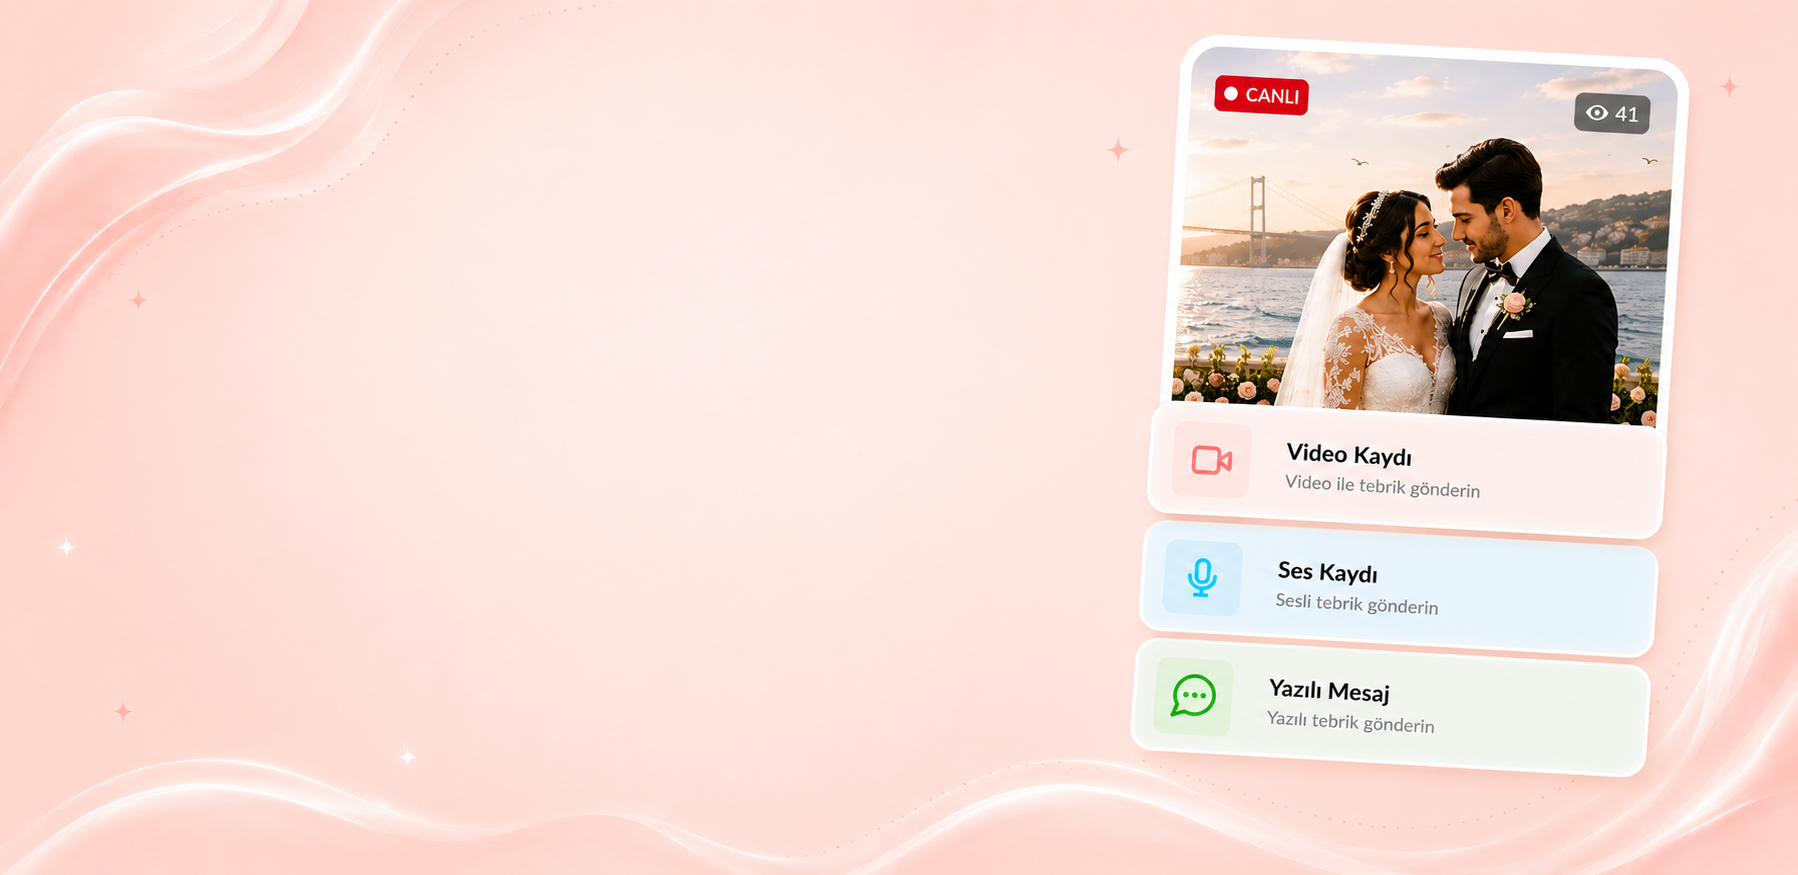
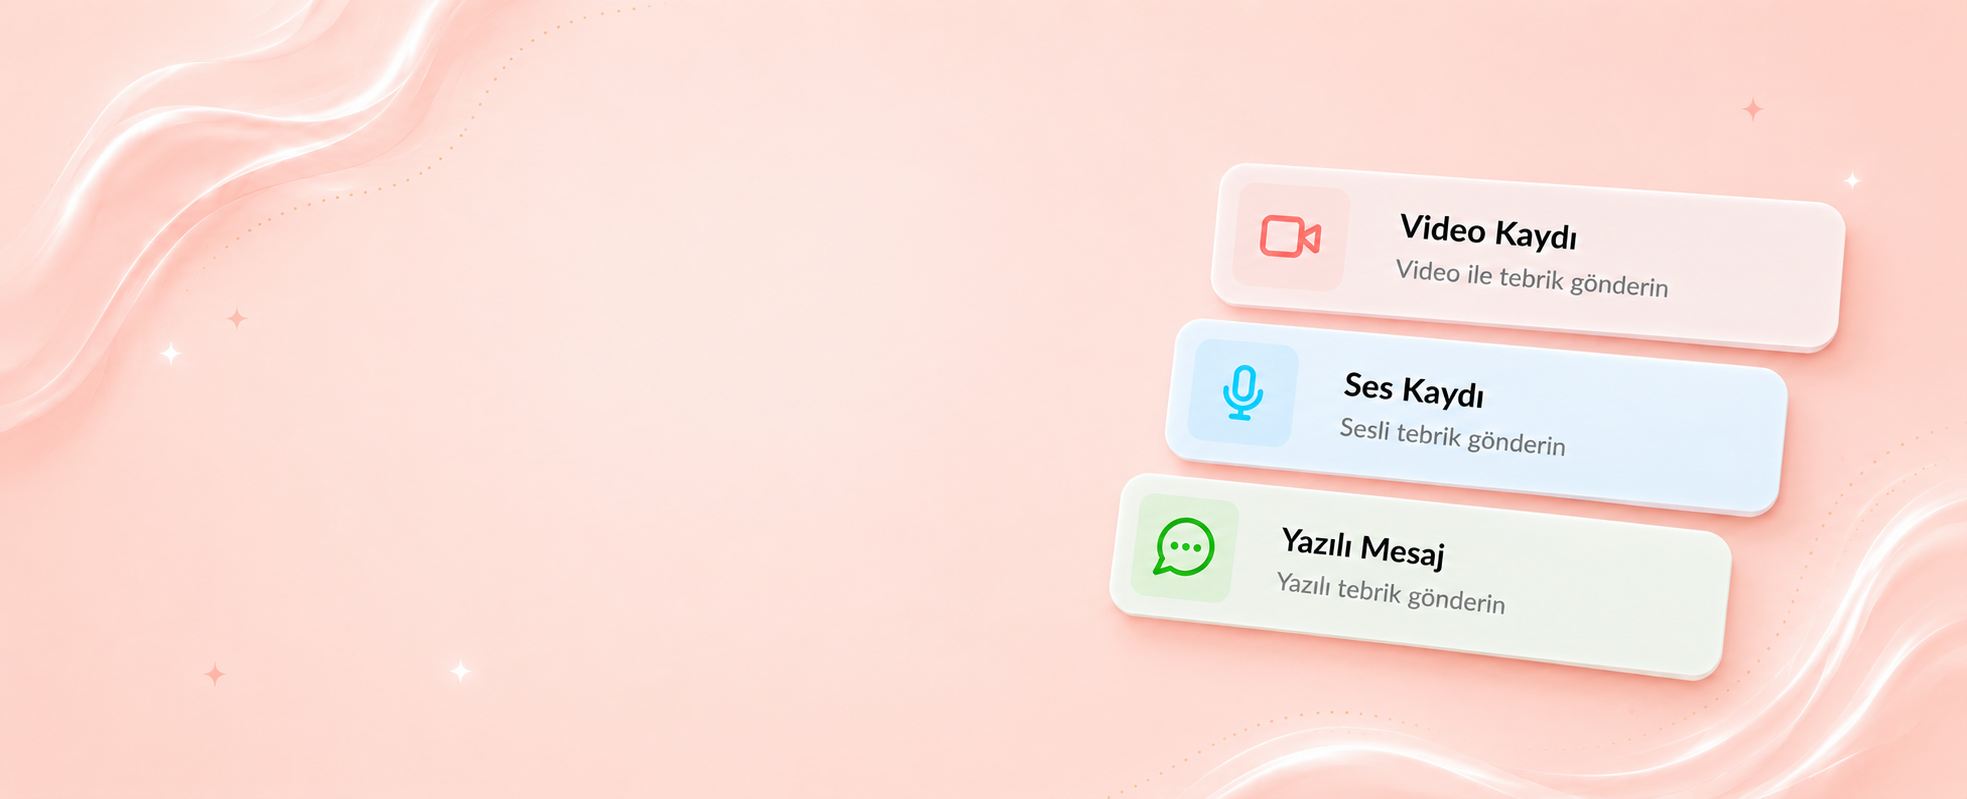
fix: masaüstü 4 kart düzeltme — aspect 3.63:1, headings/badges büyütüldü
- Tebrik + Altın Toplama: yeni image dosyaları kopyalandı
- 3 kart (Altın/Tebrik/Albüm) aspect → 1964/541 (Canlı Yayın ile aynı)
- Tüm kart başlıkları +1pt büyütüldü
- Canlı Yayın: heading sağa+yukarı, desc +1pt + spacing, badges %30 büyük,
  alta (justify-between)
- Altın Toplama: heading aşağıda + tek satır birleşik, desc +1pt, badges büyütüldü
- Tebrik: heading + desc sağa kaydırıldı (pl-24)
- Albüm: heading + desc + badges sağa kaydırıldı (pl-24), badges büyütüldü,
  fotolar +%20 (70→84, 95→114)

diff --git a/app/page.tsx b/app/page.tsx
@@ -597,28 +597,30 @@ export default function Home() {
               </div>
             </div>
 
-            {/* Masaüstü — 1230x300, image full bg, content overlay sol (image'in pembe sol kısmı üzerinde) */}
-            <div className="hidden md:flex absolute left-0 top-0 h-full w-[52%] flex-col justify-center pl-10 pr-4">
-              <h3 className="leading-[1.05]" style={{ fontFamily: 'var(--font-playfair)', color: '#C8686E', fontWeight: 600, fontSize: 'clamp(28px, 2.6vw, 38px)' }}>Canlı Yayın</h3>
-              <h3 className="leading-[1.1] mt-0.5" style={{ fontFamily: 'var(--font-playfair)', color: '#1F1F1F', fontWeight: 600, fontSize: 'clamp(16px, 1.5vw, 22px)' }}>ile mutluluğunuzu paylaşın!</h3>
-              <p className="mt-2 leading-snug text-[12px] lg:text-[13px]" style={{ color: '#6E5A5A' }}>
-                Düğününüzü veya Nikahınızı Canlı Yayınlayın,<br />
-                bu anı kimse kaçırmasın!
-              </p>
-              <div className="flex gap-1 flex-wrap mt-2.5">
+            {/* Masaüstü — image full bg, heading sağa+yukarı kayık, badges altta büyütülmüş */}
+            <div className="hidden md:flex absolute left-0 top-0 h-full w-[52%] flex-col justify-between pl-14 pr-4 py-6">
+              <div>
+                <h3 className="leading-[1.05]" style={{ fontFamily: 'var(--font-playfair)', color: '#C8686E', fontWeight: 600, fontSize: 'clamp(32px, 3vw, 44px)' }}>Canlı Yayın</h3>
+                <h3 className="leading-[1.1] mt-1" style={{ fontFamily: 'var(--font-playfair)', color: '#1F1F1F', fontWeight: 600, fontSize: 'clamp(18px, 1.7vw, 26px)' }}>ile mutluluğunuzu paylaşın!</h3>
+                <p className="mt-4 leading-snug text-[13px] lg:text-[14px]" style={{ color: '#6E5A5A' }}>
+                  Düğününüzü veya Nikahınızı Canlı Yayınlayın,<br />
+                  bu anı kimse kaçırmasın!
+                </p>
+              </div>
+              <div className="flex gap-1.5 flex-wrap">
                 {[
-                  { label: 'Yüksek Çözünürlük', icon: <svg className="w-3 h-3" fill="none" stroke="currentColor" viewBox="0 0 24 24"><path strokeLinecap="round" strokeLinejoin="round" strokeWidth={2.5} d="M9 12l2 2 4-4m6 2a9 9 0 11-18 0 9 9 0 0118 0z" /></svg> },
-                  { label: 'Tek Tıkla Yayın', icon: <svg className="w-3 h-3" fill="none" stroke="currentColor" viewBox="0 0 24 24"><path strokeLinecap="round" strokeLinejoin="round" strokeWidth={2.5} d="M9 12l2 2 4-4m6 2a9 9 0 11-18 0 9 9 0 0118 0z" /></svg> },
-                  { label: 'Uygulamasız izleme', icon: <svg className="w-3 h-3" fill="none" stroke="currentColor" viewBox="0 0 24 24"><path strokeLinecap="round" strokeLinejoin="round" strokeWidth={2.5} d="M9 12l2 2 4-4m6 2a9 9 0 11-18 0 9 9 0 0118 0z" /></svg> },
+                  { label: 'Yüksek Çözünürlük', icon: <svg className="w-3.5 h-3.5" fill="none" stroke="currentColor" viewBox="0 0 24 24"><path strokeLinecap="round" strokeLinejoin="round" strokeWidth={2.5} d="M9 12l2 2 4-4m6 2a9 9 0 11-18 0 9 9 0 0118 0z" /></svg> },
+                  { label: 'Tek Tıkla Yayın', icon: <svg className="w-3.5 h-3.5" fill="none" stroke="currentColor" viewBox="0 0 24 24"><path strokeLinecap="round" strokeLinejoin="round" strokeWidth={2.5} d="M9 12l2 2 4-4m6 2a9 9 0 11-18 0 9 9 0 0118 0z" /></svg> },
+                  { label: 'Uygulamasız izleme', icon: <svg className="w-3.5 h-3.5" fill="none" stroke="currentColor" viewBox="0 0 24 24"><path strokeLinecap="round" strokeLinejoin="round" strokeWidth={2.5} d="M9 12l2 2 4-4m6 2a9 9 0 11-18 0 9 9 0 0118 0z" /></svg> },
                 ].map((b, i) => (
-                  <span key={i} className="inline-flex items-center gap-1 px-2 py-0.5 rounded-full text-[10px] font-semibold whitespace-nowrap" style={{ background: 'rgba(255,255,255,0.85)', color: '#C8686E', border: '1px solid rgba(200,104,110,0.18)', boxShadow: '0 2px 6px rgba(200,104,110,0.06)' }}>{b.icon}{b.label}</span>
+                  <span key={i} className="inline-flex items-center gap-1.5 px-3 py-1.5 rounded-full text-[13px] font-semibold whitespace-nowrap" style={{ background: 'rgba(255,255,255,0.85)', color: '#C8686E', border: '1px solid rgba(200,104,110,0.18)', boxShadow: '0 2px 6px rgba(200,104,110,0.06)' }}>{b.icon}{b.label}</span>
                 ))}
               </div>
             </div>
           </div>
 
-          {/* Altınlarınızı Online Toplayın - kart (1230x300 masaüstü: image full bg) */}
-          <div className="relative rounded-3xl overflow-hidden md:min-h-[300px]" style={{ boxShadow: '0 16px 48px rgba(200,140,140,0.18), 0 4px 14px rgba(0,0,0,0.04)', border: '1px solid rgba(232,180,170,0.25)' }}>
+          {/* Altınlarınızı Online Toplayın - kart (masaüstü aspect 3.63:1 = canlı yayın ile aynı) */}
+          <div className="relative rounded-3xl overflow-hidden md:aspect-[1964/541]" style={{ boxShadow: '0 16px 48px rgba(200,140,140,0.18), 0 4px 14px rgba(0,0,0,0.04)', border: '1px solid rgba(232,180,170,0.25)' }}>
             <img src="/altin-toplama-mobil.png" alt="" className="absolute inset-0 w-full h-full object-cover md:hidden pointer-events-none select-none" />
             <img src="/altin-toplama-masaustu.png" alt="" className="hidden md:block absolute inset-0 w-full h-full object-cover pointer-events-none select-none" />
             {/* Mobil — heading + desc tam ortalanmış, badges altta tam ortalı */}
@@ -646,27 +648,29 @@ export default function Home() {
                 ))}
               </div>
             </div>
-            {/* Masaüstü — image full bg, content overlay sağ (badges altta) */}
-            <div className="hidden md:flex absolute right-0 top-0 h-full w-[52%] flex-col justify-between pr-10 pl-4 py-6">
-              <div>
-                <h3 className="text-[clamp(26px,2.4vw,36px)] mb-0.5 leading-[1.1]" style={{ fontFamily: 'var(--font-playfair)', color: '#2B2B2B', fontWeight: 600 }}>Altınlarınızı</h3>
-                <h3 className="text-[clamp(26px,2.4vw,36px)] mb-2 leading-[1.1] whitespace-nowrap" style={{ fontFamily: 'var(--font-playfair)', color: '#C8686E', fontWeight: 600 }}>Online Toplayın</h3>
-                <p className="text-[12px] lg:text-[13px] leading-snug" style={{ color: '#6E5A5A' }}>Davetlileriniz Havale/EFT veya Crypto ile doğrudan sizin hesabınıza ödeme yapsın.</p>
+            {/* Masaüstü — image full bg, content overlay sağ (heading aşağıya, tek satır) */}
+            <div className="hidden md:flex absolute right-0 top-0 h-full w-[52%] flex-col justify-between pr-14 pl-4 py-6">
+              <div className="pt-3">
+                <h3 className="text-[clamp(28px,2.6vw,40px)] mb-2 leading-[1.1] whitespace-nowrap" style={{ fontFamily: 'var(--font-playfair)', color: '#2B2B2B', fontWeight: 600 }}>
+                  <span>Altınlarınızı </span>
+                  <span style={{ color: '#C8686E' }}>Online Toplayın</span>
+                </h3>
+                <p className="text-[13px] lg:text-[14px] leading-snug" style={{ color: '#6E5A5A' }}>Davetlileriniz Havale/EFT veya Crypto ile doğrudan sizin hesabınıza ödeme yapsın.</p>
               </div>
-              <div className="flex gap-1 flex-nowrap">
+              <div className="flex gap-1.5 flex-nowrap">
                 {[
-                  { label: 'Güvenilir', icon: <svg className="w-3 h-3" fill="none" stroke="currentColor" viewBox="0 0 24 24"><path strokeLinecap="round" strokeLinejoin="round" strokeWidth={2.5} d="M9 12l2 2 4-4m6 2a9 9 0 11-18 0 9 9 0 0118 0z" /></svg> },
-                  { label: 'Komisyon Yok', icon: <svg className="w-3 h-3" fill="none" stroke="currentColor" viewBox="0 0 24 24"><path strokeLinecap="round" strokeLinejoin="round" strokeWidth={2.5} d="M9 12l2 2 4-4m6 2a9 9 0 11-18 0 9 9 0 0118 0z" /></svg> },
-                  { label: 'Anında Ödeme', icon: <svg className="w-3 h-3" fill="none" stroke="currentColor" viewBox="0 0 24 24"><path strokeLinecap="round" strokeLinejoin="round" strokeWidth={2.5} d="M13 10V3L4 14h7v7l9-11h-7z" /></svg> },
+                  { label: 'Güvenilir', icon: <svg className="w-3.5 h-3.5" fill="none" stroke="currentColor" viewBox="0 0 24 24"><path strokeLinecap="round" strokeLinejoin="round" strokeWidth={2.5} d="M9 12l2 2 4-4m6 2a9 9 0 11-18 0 9 9 0 0118 0z" /></svg> },
+                  { label: 'Komisyon Yok', icon: <svg className="w-3.5 h-3.5" fill="none" stroke="currentColor" viewBox="0 0 24 24"><path strokeLinecap="round" strokeLinejoin="round" strokeWidth={2.5} d="M9 12l2 2 4-4m6 2a9 9 0 11-18 0 9 9 0 0118 0z" /></svg> },
+                  { label: 'Anında Ödeme', icon: <svg className="w-3.5 h-3.5" fill="none" stroke="currentColor" viewBox="0 0 24 24"><path strokeLinecap="round" strokeLinejoin="round" strokeWidth={2.5} d="M13 10V3L4 14h7v7l9-11h-7z" /></svg> },
                 ].map((b, i) => (
-                  <span key={i} className="inline-flex items-center gap-1 px-2 py-0.5 rounded-full text-[10px] font-semibold whitespace-nowrap" style={{ background: 'rgba(255,255,255,0.85)', color: '#C8686E', border: '1px solid rgba(200,104,110,0.18)', boxShadow: '0 2px 6px rgba(200,104,110,0.06)' }}>{b.icon}{b.label}</span>
+                  <span key={i} className="inline-flex items-center gap-1.5 px-3 py-1.5 rounded-full text-[13px] font-semibold whitespace-nowrap" style={{ background: 'rgba(255,255,255,0.85)', color: '#C8686E', border: '1px solid rgba(200,104,110,0.18)', boxShadow: '0 2px 6px rgba(200,104,110,0.06)' }}>{b.icon}{b.label}</span>
                 ))}
               </div>
             </div>
           </div>
 
-          {/* Tebrik Mesajları - mobile (1:1) + desktop (1230x300, image full bg, content sol overlay) */}
-          <div className="relative rounded-3xl overflow-hidden mx-auto w-full aspect-square md:aspect-auto max-w-[720px] md:max-w-none md:min-h-[300px]" style={{ boxShadow: '0 16px 48px rgba(200,140,140,0.18), 0 4px 14px rgba(0,0,0,0.04)', border: '1px solid rgba(232,180,170,0.25)' }}>
+          {/* Tebrik Mesajları - mobile (1:1) + desktop (aspect 3.63:1 = canlı yayın ile aynı) */}
+          <div className="relative rounded-3xl overflow-hidden mx-auto w-full aspect-square md:aspect-[1964/541] max-w-[720px] md:max-w-none" style={{ boxShadow: '0 16px 48px rgba(200,140,140,0.18), 0 4px 14px rgba(0,0,0,0.04)', border: '1px solid rgba(232,180,170,0.25)' }}>
             <img src="/bg-tebrik.png" alt="" className="md:hidden absolute inset-0 w-full h-full object-cover pointer-events-none select-none" />
             <img src="/bg-tebrik-masaustu.png" alt="Tebrik mesajlarınızı kabul edin" className="hidden md:block absolute inset-0 w-full h-full object-cover pointer-events-none select-none" />
 
@@ -686,13 +690,13 @@ export default function Home() {
               </p>
             </div>
 
-            {/* Masaüstü — content sol overlay, image full bg */}
-            <div className="hidden md:flex absolute left-0 top-0 h-full w-[52%] flex-col justify-center pl-10 pr-4">
-              <h3 className="leading-[1.05]" style={{ fontFamily: 'var(--font-playfair)', color: '#1F1F1F', fontWeight: 600, fontSize: 'clamp(22px, 2.4vw, 32px)' }}>Tebrik</h3>
-              <h3 className="leading-[1.05]" style={{ fontFamily: 'var(--font-playfair)', color: '#C8686E', fontWeight: 600, fontSize: 'clamp(22px, 2.4vw, 32px)' }}>mesajlarınızı</h3>
-              <h3 className="leading-[1.05]" style={{ fontFamily: 'var(--font-playfair)', color: '#1F1F1F', fontWeight: 600, fontSize: 'clamp(22px, 2.4vw, 32px)' }}>kabul edin!</h3>
-              <div className="mt-2 mb-2" style={{ width: '50px', height: '2px', background: '#C8686E', borderRadius: '2px' }} />
-              <p className="leading-snug text-[12px] lg:text-[13px]" style={{ color: '#7A6B6B' }}>
+            {/* Masaüstü — content sol overlay (sağa kaydırılmış), image full bg */}
+            <div className="hidden md:flex absolute left-0 top-0 h-full w-[52%] flex-col justify-center pl-24 pr-4">
+              <h3 className="leading-[1.05]" style={{ fontFamily: 'var(--font-playfair)', color: '#1F1F1F', fontWeight: 600, fontSize: 'clamp(26px, 2.7vw, 36px)' }}>Tebrik</h3>
+              <h3 className="leading-[1.05]" style={{ fontFamily: 'var(--font-playfair)', color: '#C8686E', fontWeight: 600, fontSize: 'clamp(26px, 2.7vw, 36px)' }}>mesajlarınızı</h3>
+              <h3 className="leading-[1.05]" style={{ fontFamily: 'var(--font-playfair)', color: '#1F1F1F', fontWeight: 600, fontSize: 'clamp(26px, 2.7vw, 36px)' }}>kabul edin!</h3>
+              <div className="mt-3 mb-3" style={{ width: '60px', height: '2px', background: '#C8686E', borderRadius: '2px' }} />
+              <p className="leading-snug text-[13px] lg:text-[14px]" style={{ color: '#7A6B6B' }}>
                 Canlı Yayınınızı izleyen davetliler Video Kaydı, Ses Kaydı veya Yazılı Mesaj yöntemlerinden biri ile size tebrik mesajı iletsin!
               </p>
             </div>
@@ -790,56 +794,56 @@ export default function Home() {
             </div>
           </div>
 
-          {/* Fotoğraf Albümü — MASAÜSTÜ kart (1230x300, image full bg cover, content overlay) */}
-          <div className="hidden md:block relative rounded-3xl overflow-hidden mx-auto w-full md:min-h-[300px]" style={{ backgroundImage: 'url(/bg-album-masaustu.png)', backgroundSize: 'cover', backgroundPosition: 'center', boxShadow: '0 16px 48px rgba(200,140,140,0.18), 0 4px 14px rgba(0,0,0,0.04)', border: '1px solid rgba(232,180,170,0.25)' }}>
-            <div className="relative grid grid-cols-2 gap-4 px-10 lg:px-12 min-h-[300px]">
+          {/* Fotoğraf Albümü — MASAÜSTÜ kart (aspect 3.63:1, image full bg, content sağa kayık, foto +20%) */}
+          <div className="hidden md:block relative rounded-3xl overflow-hidden mx-auto w-full md:aspect-[1964/541]" style={{ backgroundImage: 'url(/bg-album-masaustu.png)', backgroundSize: 'cover', backgroundPosition: 'center', boxShadow: '0 16px 48px rgba(200,140,140,0.18), 0 4px 14px rgba(0,0,0,0.04)', border: '1px solid rgba(232,180,170,0.25)' }}>
+            <div className="relative grid grid-cols-2 gap-4 pl-24 pr-12 h-full">
 
-              {/* SOL — Heading + açıklama + badges */}
+              {/* SOL — Heading + açıklama + badges (sağa kaydırıldı pl-24) */}
               <div className="flex flex-col justify-center py-6">
                 <div style={{ fontFamily: 'var(--font-playfair), Georgia, serif', fontWeight: 500, letterSpacing: '0.3px', lineHeight: 1.1 }}>
-                  <div style={{ color: '#C8686E', fontSize: 'clamp(24px, 2.6vw, 36px)' }}>Fotoğraf</div>
-                  <div className="flex items-center gap-2 mt-1" style={{ fontSize: 'clamp(18px, 2vw, 28px)' }}>
-                    <span className="flex-shrink-0 h-[2px] rounded-full" style={{ width: 'clamp(24px, 2.5vw, 40px)', background: 'linear-gradient(to right, transparent, #C8686E, transparent)' }} />
+                  <div style={{ color: '#C8686E', fontSize: 'clamp(28px, 2.9vw, 40px)' }}>Fotoğraf</div>
+                  <div className="flex items-center gap-2 mt-1" style={{ fontSize: 'clamp(22px, 2.3vw, 32px)' }}>
+                    <span className="flex-shrink-0 h-[2px] rounded-full" style={{ width: 'clamp(28px, 3vw, 48px)', background: 'linear-gradient(to right, transparent, #C8686E, transparent)' }} />
                     <span style={{ color: '#2B2B2B' }}>Albümü Oluşturun</span>
                   </div>
                 </div>
-                <p className="leading-snug mt-2 text-[12px] lg:text-[13px] max-w-[380px]" style={{ color: '#6E5A5A' }}>
+                <p className="leading-snug mt-3 text-[13px] lg:text-[14px] max-w-[380px]" style={{ color: '#6E5A5A' }}>
                   Online Fotoğraf albümünüzü oluşturun, davetliler gün boyu çekilen fotoğrafları eklesin.
                 </p>
-                <div className="flex gap-1 mt-2.5 flex-wrap">
-                  <span className="inline-flex items-center gap-1 px-2 py-0.5 rounded-full text-[10px] font-semibold whitespace-nowrap" style={{ background: 'rgba(255,255,255,0.85)', color: '#C8686E', border: '1px solid rgba(200,104,110,0.18)', boxShadow: '0 2px 6px rgba(200,104,110,0.06)' }}>
-                    <svg className="w-3 h-3" fill="none" stroke="currentColor" viewBox="0 0 24 24"><path strokeLinecap="round" strokeLinejoin="round" strokeWidth={2.2} d="M17 20h5v-2a4 4 0 00-3-3.87M9 20H4v-2a4 4 0 013-3.87m6-3.13a4 4 0 100-8 4 4 0 000 8zm6 0a3 3 0 100-6 3 3 0 000 6zm-12 0a3 3 0 100-6 3 3 0 000 6z" /></svg>
+                <div className="flex gap-1.5 mt-3 flex-wrap">
+                  <span className="inline-flex items-center gap-1.5 px-3 py-1.5 rounded-full text-[13px] font-semibold whitespace-nowrap" style={{ background: 'rgba(255,255,255,0.85)', color: '#C8686E', border: '1px solid rgba(200,104,110,0.18)', boxShadow: '0 2px 6px rgba(200,104,110,0.06)' }}>
+                    <svg className="w-3.5 h-3.5" fill="none" stroke="currentColor" viewBox="0 0 24 24"><path strokeLinecap="round" strokeLinejoin="round" strokeWidth={2.2} d="M17 20h5v-2a4 4 0 00-3-3.87M9 20H4v-2a4 4 0 013-3.87m6-3.13a4 4 0 100-8 4 4 0 000 8zm6 0a3 3 0 100-6 3 3 0 000 6zm-12 0a3 3 0 100-6 3 3 0 000 6z" /></svg>
                     Birlikte Yükleyin
                   </span>
-                  <span className="inline-flex items-center gap-1 px-2 py-0.5 rounded-full text-[10px] font-semibold whitespace-nowrap" style={{ background: 'rgba(255,255,255,0.85)', color: '#C8686E', border: '1px solid rgba(200,104,110,0.18)', boxShadow: '0 2px 6px rgba(200,104,110,0.06)' }}>
-                    <svg className="w-3 h-3" fill="none" stroke="currentColor" viewBox="0 0 24 24"><path strokeLinecap="round" strokeLinejoin="round" strokeWidth={2.2} d="M4 16v2a2 2 0 002 2h12a2 2 0 002-2v-2M7 10l5 5 5-5M12 15V3" /></svg>
+                  <span className="inline-flex items-center gap-1.5 px-3 py-1.5 rounded-full text-[13px] font-semibold whitespace-nowrap" style={{ background: 'rgba(255,255,255,0.85)', color: '#C8686E', border: '1px solid rgba(200,104,110,0.18)', boxShadow: '0 2px 6px rgba(200,104,110,0.06)' }}>
+                    <svg className="w-3.5 h-3.5" fill="none" stroke="currentColor" viewBox="0 0 24 24"><path strokeLinecap="round" strokeLinejoin="round" strokeWidth={2.2} d="M4 16v2a2 2 0 002 2h12a2 2 0 002-2v-2M7 10l5 5 5-5M12 15V3" /></svg>
                     Kolayca İndirin
                   </span>
                 </div>
               </div>
 
-              {/* SAĞ — 3 foto eğri arrangement (foto 4 önde, foto 2 sol, foto 8 sağ) — küçültüldü */}
+              {/* SAĞ — 3 foto eğri arrangement (foto +20% büyütüldü) */}
               <div className="relative">
-                <div className="absolute" style={{ left: '50%', top: '50%', transform: 'translate(-50%, -50%) translateX(-70px) rotate(-7deg)', zIndex: 1 }}>
+                <div className="absolute" style={{ left: '50%', top: '50%', transform: 'translate(-50%, -50%) translateX(-85px) rotate(-7deg)', zIndex: 1 }}>
                   <div className="bg-white p-1 rounded-lg" style={{ boxShadow: '0 6px 16px rgba(80,60,40,0.20), 0 2px 6px rgba(0,0,0,0.06)' }}>
-                    <img src="/foto2.png" alt="" className="block object-cover rounded-md" style={{ width: '70px', height: '100px' }} />
+                    <img src="/foto2.png" alt="" className="block object-cover rounded-md" style={{ width: '84px', height: '120px' }} />
                   </div>
                 </div>
-                <div className="absolute" style={{ left: '50%', top: '50%', transform: 'translate(-50%, -50%) translateX(70px) rotate(7deg)', zIndex: 1 }}>
+                <div className="absolute" style={{ left: '50%', top: '50%', transform: 'translate(-50%, -50%) translateX(85px) rotate(7deg)', zIndex: 1 }}>
                   <div className="bg-white p-1 rounded-lg" style={{ boxShadow: '0 6px 16px rgba(80,60,40,0.20), 0 2px 6px rgba(0,0,0,0.06)' }}>
-                    <img src="/foto8.png" alt="" className="block object-cover rounded-md" style={{ width: '70px', height: '100px' }} />
+                    <img src="/foto8.png" alt="" className="block object-cover rounded-md" style={{ width: '84px', height: '120px' }} />
                   </div>
                 </div>
                 <div className="absolute" style={{ left: '50%', top: '50%', transform: 'translate(-50%, -50%)', zIndex: 3 }}>
                   <div className="bg-white p-1 rounded-xl relative" style={{ boxShadow: '0 16px 36px rgba(80,60,40,0.32), 0 4px 12px rgba(0,0,0,0.10)' }}>
-                    <img src="/foto4.png" alt="" className="block object-cover rounded-lg" style={{ width: '95px', height: '130px' }} />
-                    <div className="absolute bottom-1.5 left-1.5 flex items-center gap-1 px-1.5 py-0.5 rounded-full" style={{ background: 'linear-gradient(135deg, #C26068, #9F4F58)', boxShadow: '0 3px 8px rgba(160,80,90,0.40), inset 0 1px 0 rgba(255,255,255,0.25)' }}>
-                      <svg className="w-2 h-2" fill="none" stroke="white" strokeWidth="2" viewBox="0 0 24 24">
+                    <img src="/foto4.png" alt="" className="block object-cover rounded-lg" style={{ width: '114px', height: '156px' }} />
+                    <div className="absolute bottom-1.5 left-1.5 flex items-center gap-1 px-2 py-0.5 rounded-full" style={{ background: 'linear-gradient(135deg, #C26068, #9F4F58)', boxShadow: '0 3px 8px rgba(160,80,90,0.40), inset 0 1px 0 rgba(255,255,255,0.25)' }}>
+                      <svg className="w-2.5 h-2.5" fill="none" stroke="white" strokeWidth="2" viewBox="0 0 24 24">
                         <rect x="3" y="3" width="18" height="18" rx="2" />
                         <circle cx="8.5" cy="8.5" r="1.5" fill="white" stroke="none" />
                         <path d="M21 15l-5-5L5 21" />
                       </svg>
-                      <span className="text-[9px] font-bold text-white leading-none" style={{ fontFamily: 'var(--font-geist-sans), Inter, sans-serif' }}>128+</span>
+                      <span className="text-[10px] font-bold text-white leading-none" style={{ fontFamily: 'var(--font-geist-sans), Inter, sans-serif' }}>128+</span>
                     </div>
                   </div>
                 </div>
